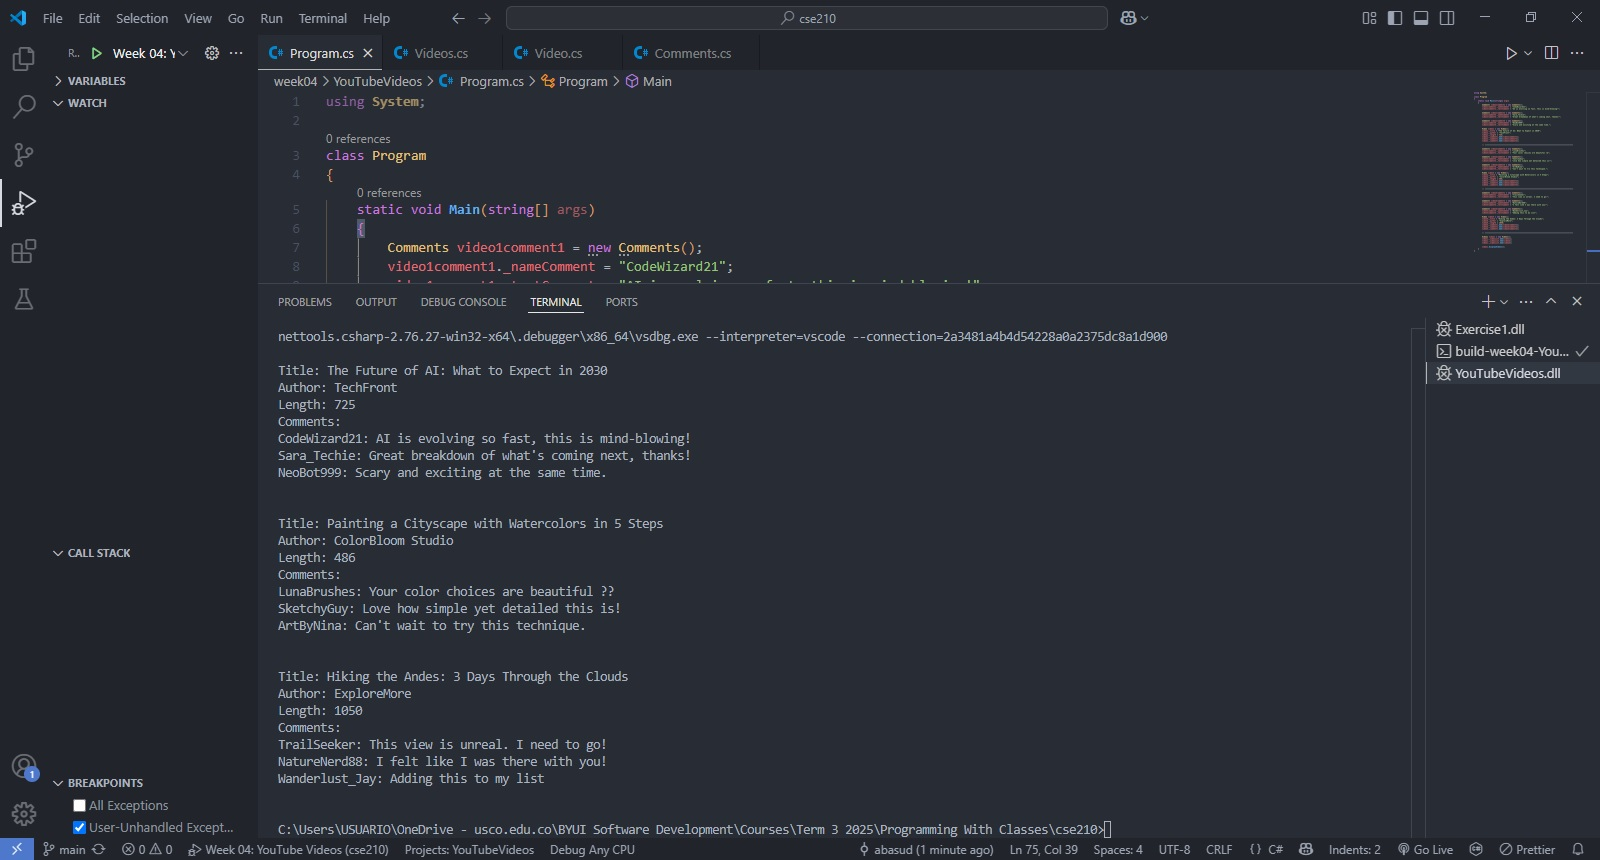
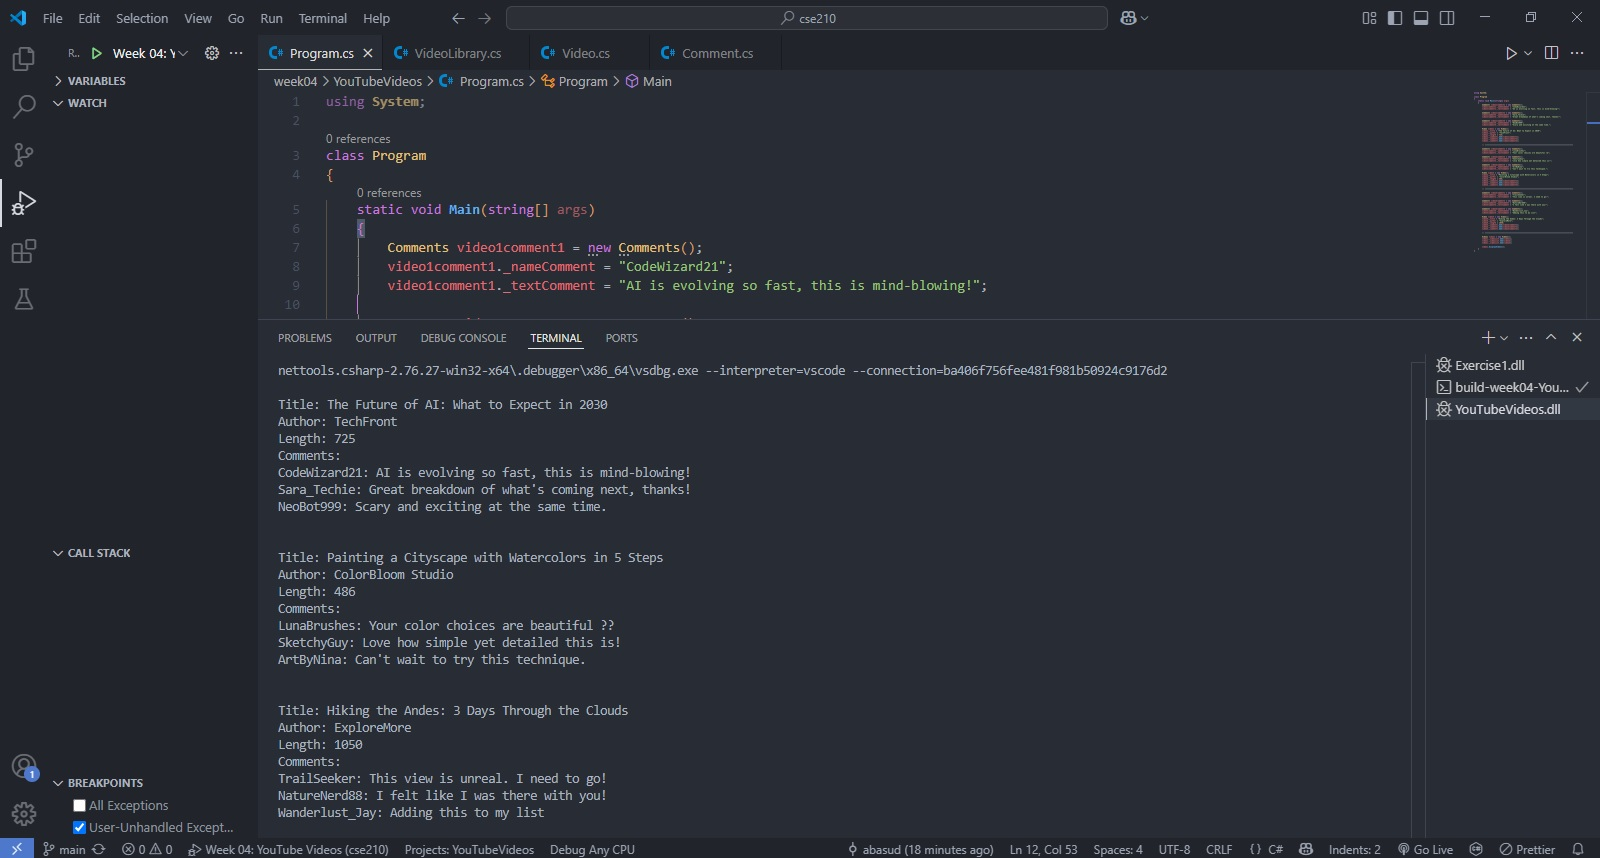
YouTube screenshot change

diff --git a/week04/YouTubeVideos/Program.cs b/week04/YouTubeVideos/Program.cs
@@ -70,7 +70,7 @@ class Program
 
         // ****************************************************************************************
 
-        Videos videos = new Videos();
+        VideoLibrary videos = new VideoLibrary();
         videos._videoList.Add(video1);
         videos._videoList.Add(video2);
         videos._videoList.Add(video3);

diff --git a/week04/YouTubeVideos/VideoLibrary.cs b/week04/YouTubeVideos/VideoLibrary.cs
@@ -1,4 +1,4 @@
-public class Videos
+public class VideoLibrary
 {
     public List<Video> _videoList = new List<Video>();
 
